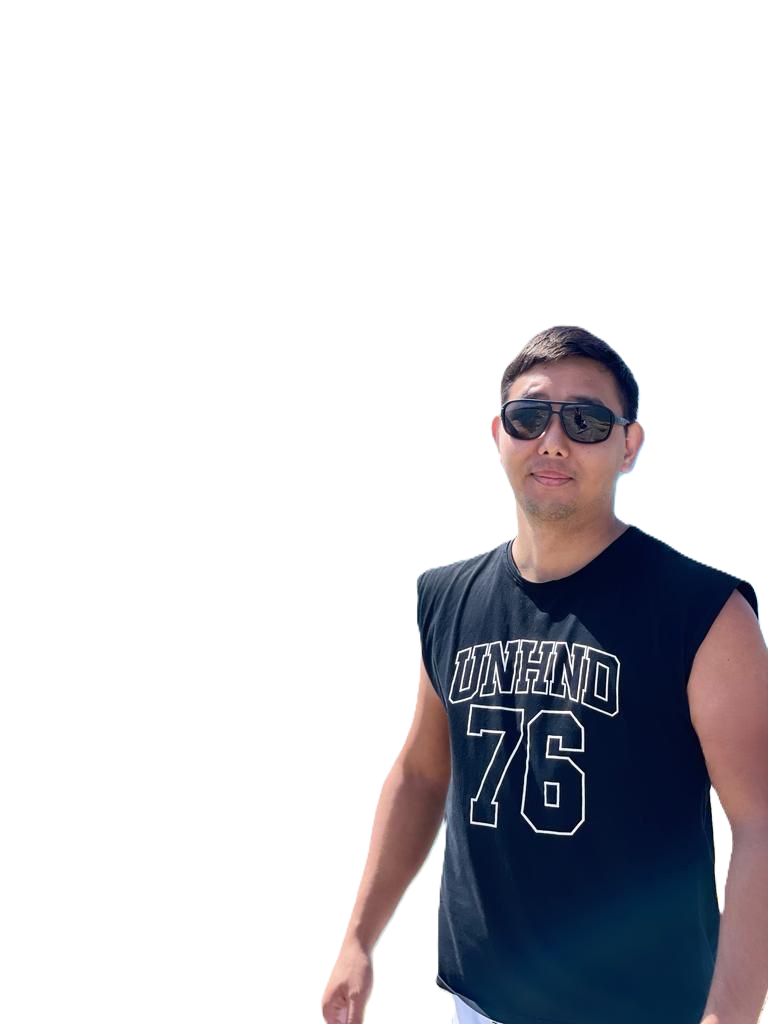
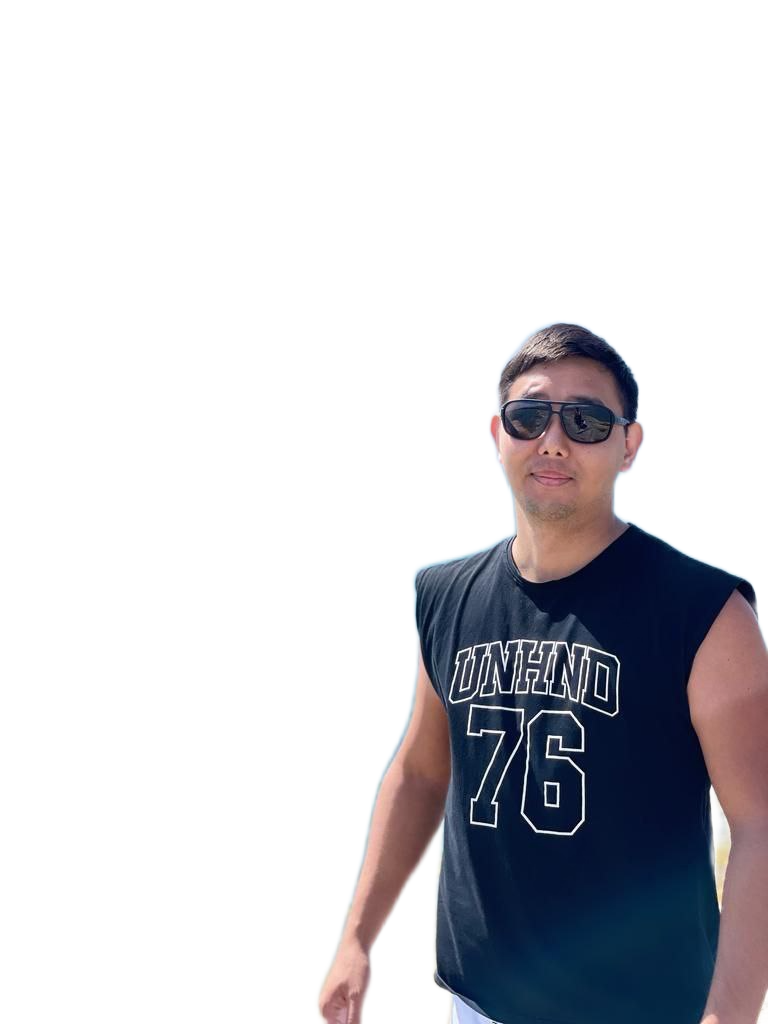
modified:   src/pages/home/Home.jsx

diff --git a/src/pages/home/Home.jsx b/src/pages/home/Home.jsx
@@ -17,7 +17,7 @@ const Home = () => {
 
        
       </div>
-      <img className='user'  width={600} src={user} alt="user" />
+      <img className='user'  width={400} src={user} alt="user" />
     </div>
     </div>
   )
